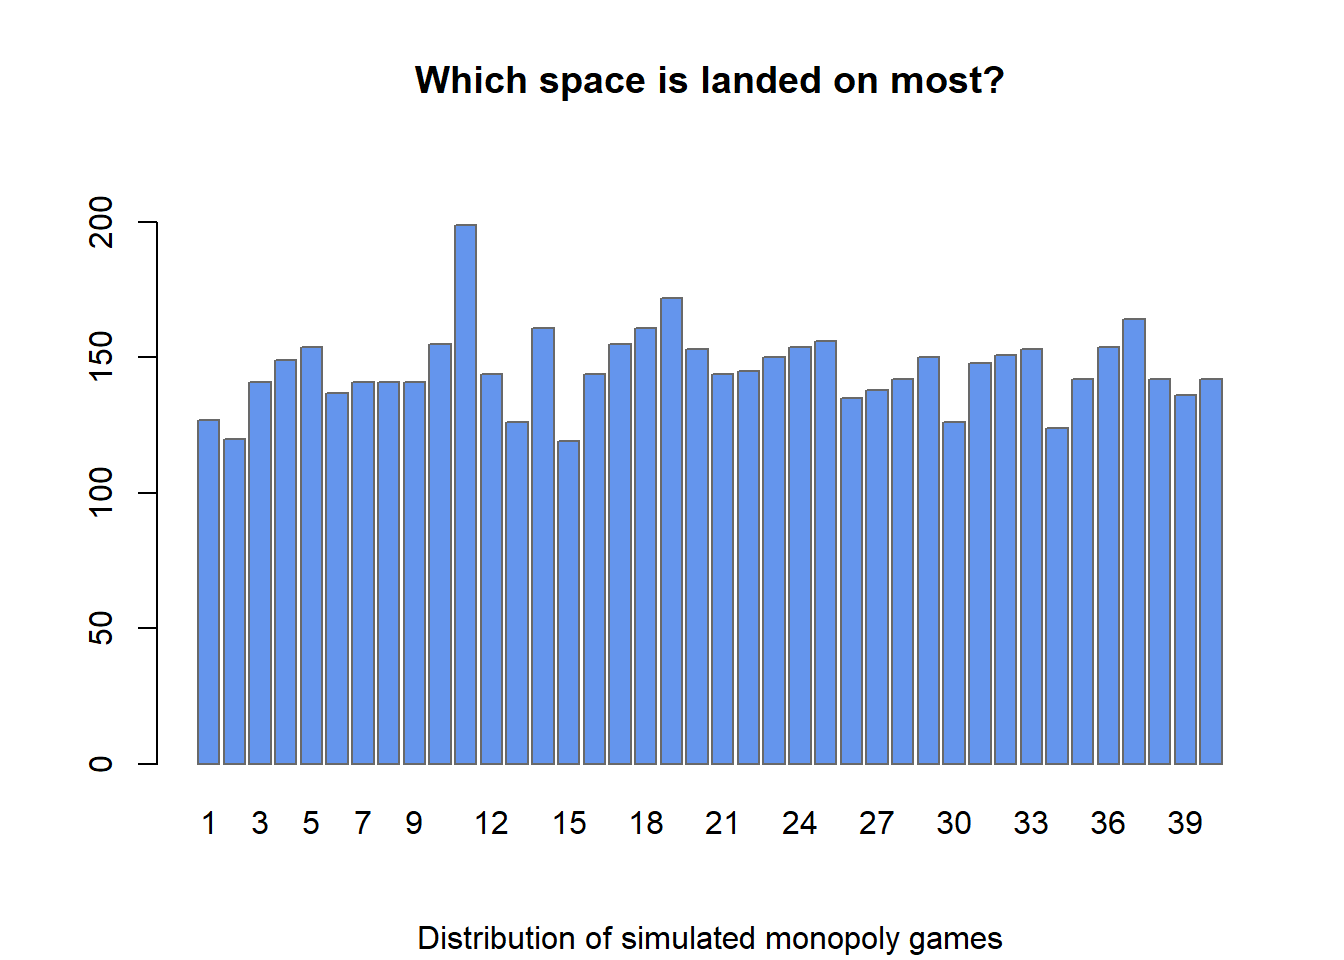
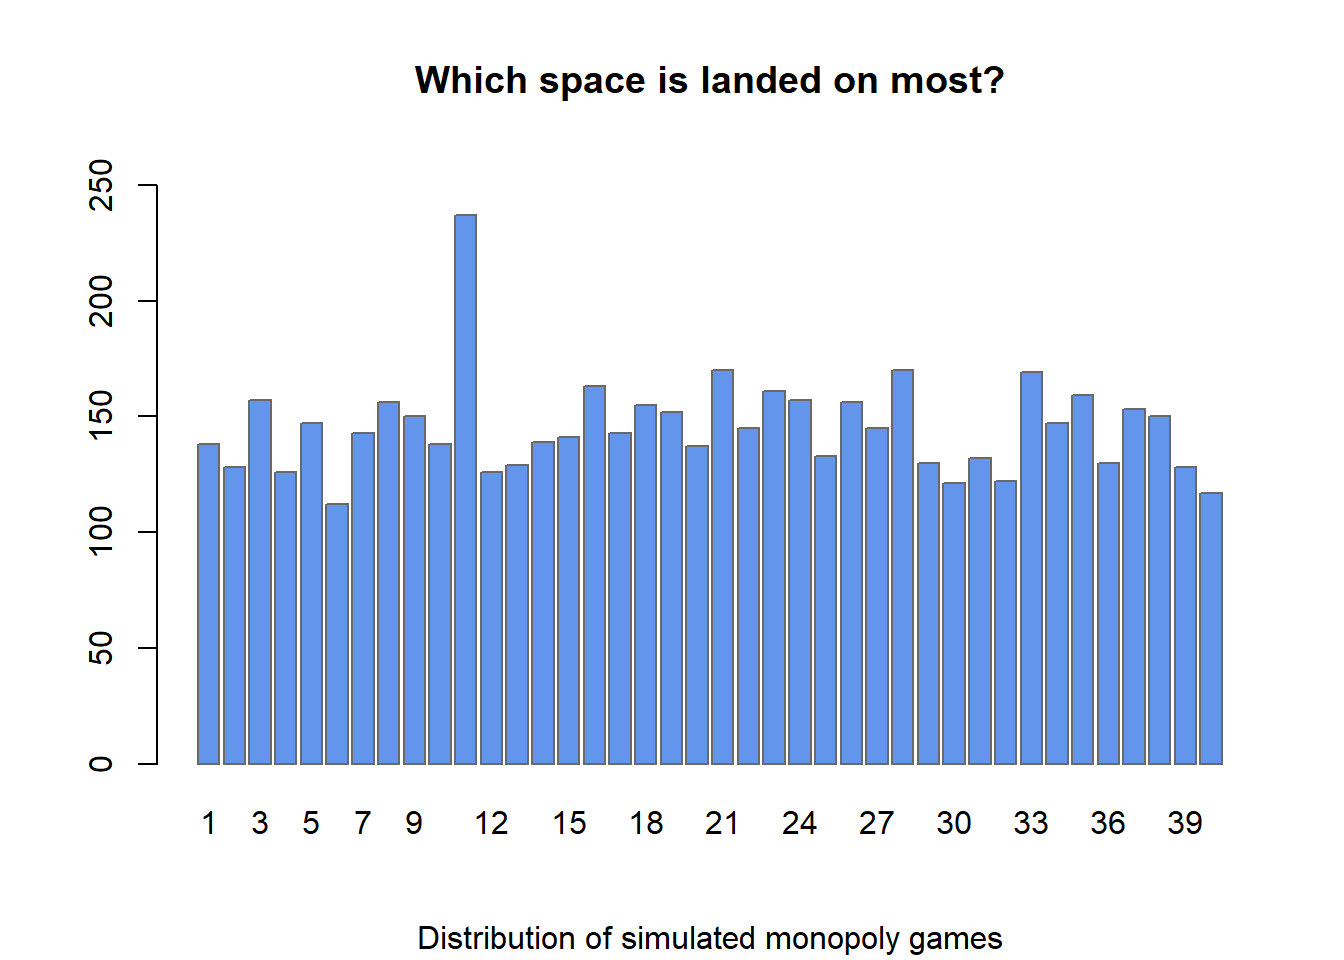
cv update

diff --git a/docs/projects/partyGames.html b/docs/projects/partyGames.html
@@ -208,12 +208,12 @@ pre > code.sourceCode > span > a:first-child::before { text-decoration: underlin
 <pre><code>$winner
 winner
   1   2   3   4   5   6   7   8   9  10  11  12  13  14  15 
-115  86 107  86 120 111 110  93  90 108  98  96  89  92  99 
+100 112  97 109 107 106 109 106  94  89  96  99  87 106  83 
 
 $moves
 moves
   -6   -5   -4   -3   -2   -1    1    2    3    4    5    6 
-1827 1912 1822 1866 1825 1902 1902 1927 1908 1904 1849 1856 
+1979 1910 1871 1851 1916 1796 1942 1824 1855 1816 1832 1908 
 
 attr(,"class")
 [1] "elphSum" "list"   </code></pre>
@@ -242,44 +242,44 @@ attr(,"class")
 <span id="cb7-3"><a href="#cb7-3" aria-hidden="true" tabindex="-1"></a>monopolyGame</span></code><button title="Copy to Clipboard" class="code-copy-button"><i class="bi"></i></button></pre></div>
 <div class="cell-output cell-output-stdout">
 <pre><code>[[1]]
- [1] 11 13 15 10 17 18 15 22  9 13 20 11 10 22  8 16 14 17 15 20 13 14 12 18 17
-[26] 15 11 12 13 18 18 14 15  7 19 19 10 16 11 19
+ [1]  9  7 18 12 16 13 20 17 10 14 20 14 18 16 11 13 10 12 15 13 21 10 17 16 15
+[26] 15 14 19 16 11 11 17 21 16 14 12 16 13 14  9
 
 [[2]]
- [1] 13  7 24 15 14 11 11  8 21 17 16 13 17 15 14 17 15 19 12 13 16 15 14 17 11
-[26] 19 13 14 12 11 13 17 13 16 12 18 19 14 12  9
+ [1] 15  8 20 11 15 10  8 17 17  7 22 16 16 13 13 17 17 14 17 13 17 18 15 15  7
+[26] 18  7 22 13 12 14 10 12 14 16 12 19 14 14 10
 
 [[3]]
- [1] 11 13 14 13 16 13 15 17  8 24 15 12 10 18 12 14 18 12 14 17 14 16  7 14 19
-[26] 11 14 19 13  9 19 19 16 12 14 15 13 15 17 17
+ [1] 13 13 18  8 20 13 17 16 11 15 27 11  9 16 13 25 12 13 17 12 12 15 16 20 17
+[26] 13 20 10 11 12  9 15 15 16 19 11 12 18 13 10
 
 [[4]]
- [1] 14 10  9 14 17 13 17  7 13 18 28 18  8 11  9 12 24 16 16 16 18 11 20 20 13
-[26] 15  9 11 22 12 10 14 15 14 17 10 18 10 17 21
+ [1] 20 14 18 16 16  8 10 15 16 15 28 10 15 12 14 13 13 18 13 13 19 17 18 15 14
+[26] 16 15 20 15  8 18 11 14 15 15 12 16 16 10 11
 
 [[5]]
- [1] 11 13 12 16 14 15 14 13 15 12 21 16 18 12  6 14 19 14 18 10 13 14 18 19 15
-[26] 18  8 16 18 11 15 14 19 11 16 14 17 16 12 13
+ [1] 15 15 13  8 17 10 19  9 26  9 21 12 14 16 14 17 16 16 20  8 17 17 18 20 10
+[26] 18 11 18 12 14 16 10 16 15 15 15 17 11 13 15
 
 [[6]]
- [1] 12 14 15 15 17 12  9 11 17 12 19 12 13 13 13 15  8 14 15 16 17  8 16 12 25
-[26] 11 18 14 12 10 17 15 17 11 11 18 19 13 16 10
+ [1] 13 14 15 16 12 11 16 17  9 18 25 14 14 10 15 13 15 16 18 17 10 13 15 15 14
+[26] 16 13 15 15 12 13 13 14 15 21 12 10 21 16 10
 
 [[7]]
- [1] 11 12 16 19 13 12 10 10 20 14 21 21  7 17 16 12 15 16 19 13 14 25 20 16 10
-[26]  5 21 14 15 14 15 13 17 14  8 15 21 12 15 11
+ [1] 13 13 15  8 15 10 13 14 21 14 19 14  9 15 16 14 15 16 12 18 16 15 13 14 14
+[26] 20 14 23 11  8 15  7 21 16 15 12 15 19 11 11
 
 [[8]]
- [1] 15 11 11 13 16 16 20 16 11 14 20 11 14 20 13 12 14 21 20 13  6 19 10 16 17
-[26] 14 16 14  9 16  9 19 13 10 15 20 12 15 11 22
+ [1] 16 14 17 15  9  9 16 23  9 21 28  8 10 15 20 15 13 21 11 16 22 12 19 13 13
+[26] 17 18 10 15 11 12 12 13 16 22 14 12 11 13 12
 
 [[9]]
- [1] 10 12 13 21 17 13 12 15 13 17 21 14 18 17 14 13 10 15 20 20 21 12 14 14 16
-[26] 10 18  9 25 15 17 13 12 15 16 11 21 15 14  8
+ [1] 14 17 11 17 16 13 11 12 15 15 25 14 10 15  9 21 14 11 14 14 23 12 13 12 16
+[26] 12 17 15 13 19  9 13 22 13 14 16 19 12 13 12
 
 [[10]]
- [1] 19 15 12 13 13 14 18 22 14 14 18 16 11 16 14 19 18 17 23 15 12 11 19  8 13
-[26] 17 10 19 11 10 15 13 16 14 14 14 14 16 11 12
+ [1] 10 13 12 15 11 15 13 16 16 10 22 13 14 11 16 15 18 18 15 13 13 16 17 17 13
+[26] 11 16 18  9 14 15 14 21 11  8 14 17 15 11 17
 
 attr(,"class")
 [1] "monopoly" "list"    </code></pre>
@@ -287,9 +287,9 @@ attr(,"class")
 <div class="sourceCode cell-code" id="cb9"><pre class="sourceCode r code-with-copy"><code class="sourceCode r"><span id="cb9-1"><a href="#cb9-1" aria-hidden="true" tabindex="-1"></a><span class="fu">summary.monopoly</span>(monopolyGame)</span></code><button title="Copy to Clipboard" class="code-copy-button"><i class="bi"></i></button></pre></div>
 <div class="cell-output cell-output-stdout">
 <pre><code>  1   2   3   4   5   6   7   8   9  10  11  12  13  14  15  16  17  18  19  20 
-127 120 141 149 154 137 141 141 141 155 199 144 126 161 119 144 155 161 172 153 
+138 128 157 126 147 112 143 156 150 138 237 126 129 139 141 163 143 155 152 137 
  21  22  23  24  25  26  27  28  29  30  31  32  33  34  35  36  37  38  39  40 
-144 145 150 154 156 135 138 142 150 126 148 151 153 124 142 154 164 142 136 142 
+170 145 161 157 133 156 145 170 130 121 132 122 169 147 159 130 153 150 128 117 
 attr(,"class")
 [1] "monoSum" "numeric"</code></pre>
 </div>
@@ -313,9 +313,9 @@ attr(,"class")
 <span id="cb12-7"><a href="#cb12-7" aria-hidden="true" tabindex="-1"></a><span class="fu">summary.monopoly</span>(monoParallel)</span></code><button title="Copy to Clipboard" class="code-copy-button"><i class="bi"></i></button></pre></div>
 <div class="cell-output cell-output-stdout">
 <pre><code>  1   2   3   4   5   6   7   8   9  10  11  12  13  14  15  16  17  18  19  20 
-251 246 267 258 275 267 280 279 320 296 430 278 255 273 297 297 314 311 299 305 
+287 258 248 262 285 239 316 313 298 272 426 283 279 268 264 303 295 300 310 286 
  21  22  23  24  25  26  27  28  29  30  31  32  33  34  35  36  37  38  39  40 
-328 316 320 288 306 294 276 297 289 289 293 291 274 285 288 274 315 313 276 253 
+315 328 313 280 310 299 273 276 300 277 289 304 293 283 259 289 307 280 280 284 
 attr(,"class")
 [1] "monoSum" "numeric"</code></pre>
 </div>
